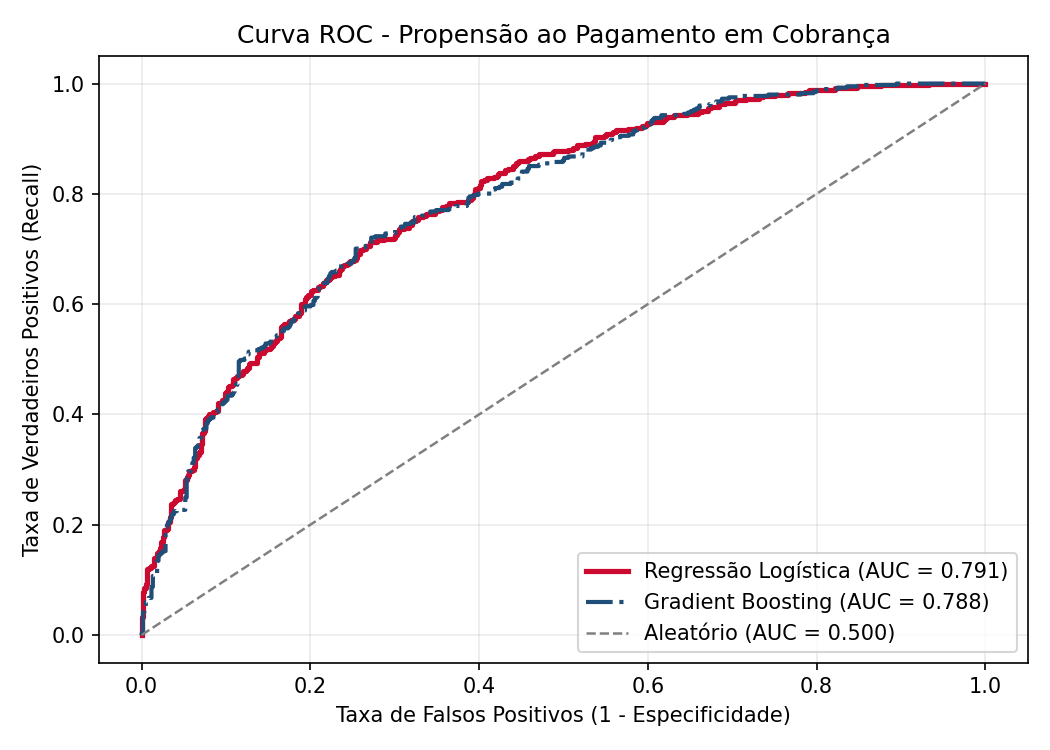
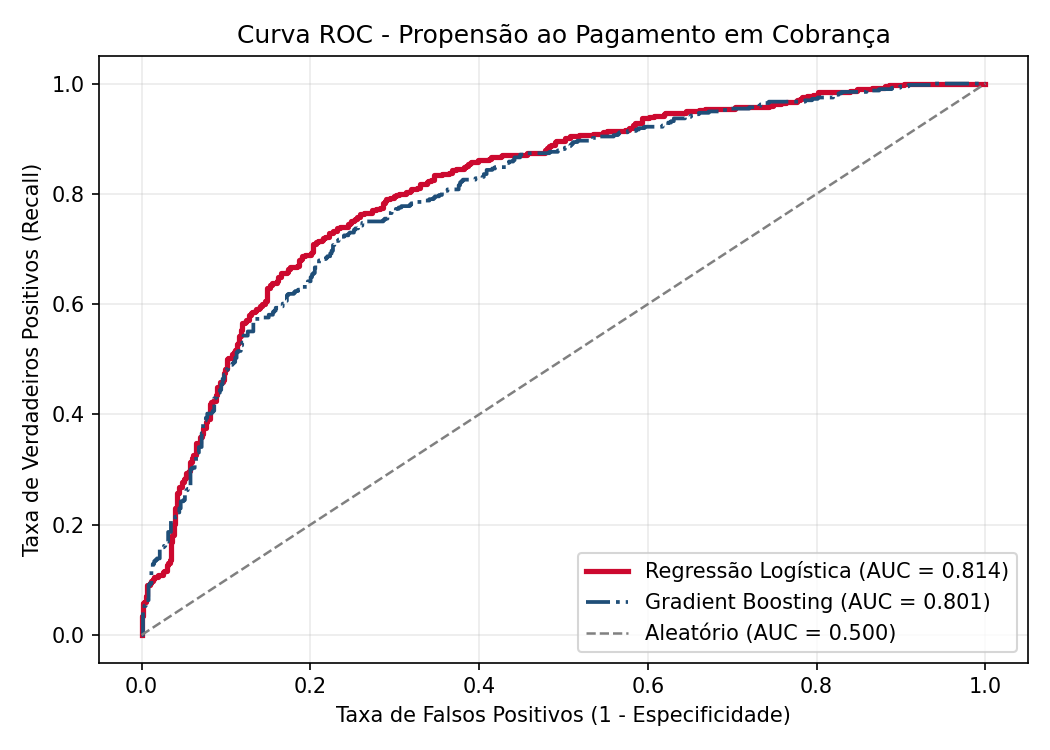
refactor(model): adiciona ColumnTransformer, OneHotEncoder e comparacao com Gradient Boosting

Changed region(s): [[0.1219, 0.092, 0.9448, 0.828], [0.6095, 0.736, 0.9752, 0.8587]]

diff --git a/src/treinar_modelo.py b/src/treinar_modelo.py
@@ -8,7 +8,8 @@ from sklearn.compose import ColumnTransformer
 from sklearn.ensemble import GradientBoostingClassifier
 from sklearn.linear_model import LogisticRegression
 from sklearn.metrics import (
-     confusion_matrix,
+    classification_report,
+    confusion_matrix,
     precision_score,
     recall_score,
     roc_auc_score,
@@ -32,12 +33,11 @@ NUMERIC_FEATURES = [
     "tempo_relacionamento_meses",
 ]
 CATEGORICAL_FEATURES = ["canal_preferido"]
-FEATURES = NUMERIC_FEATURES + CATEGORICAL_FEATURES
 TARGET = "pagou"
 
 
 def criar_preprocessador() -> ColumnTransformer:
-    """Padroniza variáveis numéricas e aplica One-Hot Encoding nas categóricas."""
+    """Cria transformador de colunas numéricas e categóricas."""
     return ColumnTransformer(
         transformers=[
             ("num", StandardScaler(), NUMERIC_FEATURES),
@@ -46,25 +46,11 @@ def criar_preprocessador() -> ColumnTransformer:
     )
 
 
-def avaliar_modelo(nome: str, pipeline: Pipeline, X_test: pd.DataFrame, y_test: pd.Series) -> dict:
-    """Calcula métricas de discriminação e classificação na base de teste."""
-    prob = pipeline.predict_proba(X_test)[:, 1]
-    pred = (prob >= 0.50).astype(int)
-    return {
-        "modelo": nome,
-        "auc_roc": roc_auc_score(y_test, prob),
-        "precision": precision_score(y_test, pred),
-        "recall": recall_score(y_test, pred),
-        "prob": prob,
-        "pred": pred,
-    }
-
-
 def treinar_e_avaliar() -> dict:
-    """Treina Regressão Logística (baseline) e Gradient Boosting, compara métricas e salva o modelo final."""
+    """Treina Regressão Logística, compara com Gradient Boosting e salva o modelo final."""
     df = pd.read_csv(DATA_PATH)
 
-    X = df[FEATURES]
+    X = df[NUMERIC_FEATURES + CATEGORICAL_FEATURES]
     y = df[TARGET]
 
     X_train, X_test, y_train, y_test = train_test_split(
@@ -75,77 +61,95 @@ def treinar_e_avaliar() -> dict:
     pipe_lr = Pipeline(
         steps=[
             ("prep", criar_preprocessador()),
-            ("clf", LogisticRegression(random_state=SEED)),
+            ("model", LogisticRegression(random_state=SEED)),
         ]
     )
     pipe_lr.fit(X_train, y_train)
-    res_lr = avaliar_modelo("Regressão Logística", pipe_lr, X_test, y_test)
+    prob_lr = pipe_lr.predict_proba(X_test)[:, 1]
+    pred_lr = (prob_lr >= 0.50).astype(int)
 
     # 2. Modelo de comparação: Gradient Boosting
     pipe_gb = Pipeline(
         steps=[
             ("prep", criar_preprocessador()),
-            ("clf", GradientBoostingClassifier(random_state=SEED)),
+            ("model", GradientBoostingClassifier(random_state=SEED)),
         ]
     )
     pipe_gb.fit(X_train, y_train)
-    res_gb = avaliar_modelo("Gradient Boosting", pipe_gb, X_test, y_test)
+    prob_gb = pipe_gb.predict_proba(X_test)[:, 1]
+    pred_gb = (prob_gb >= 0.50).astype(int)
 
-    # Tabela comparativa
-    comparacao = pd.DataFrame([res_lr, res_gb])[["modelo", "auc_roc", "precision", "recall"]]
+    # 3. Tabela comparativa
+    comparacao = pd.DataFrame(
+        [
+            {
+                "Modelo": "Regressão Logística",
+                "AUC-ROC": roc_auc_score(y_test, prob_lr),
+                "Precision (1)": precision_score(y_test, pred_lr),
+                "Recall (1)": recall_score(y_test, pred_lr),
+            },
+            {
+                "Modelo": "Gradient Boosting",
+                "AUC-ROC": roc_auc_score(y_test, prob_gb),
+                "Precision (1)": precision_score(y_test, pred_gb),
+                "Recall (1)": recall_score(y_test, pred_gb),
+            },
+        ]
+    )
 
-    # Matriz de confusão e coeficientes da Regressão Logística
-    matriz = confusion_matrix(y_test, res_lr["pred"])
+    # 4. Métricas detalhadas e coeficientes da Regressão Logística
+    auc_lr = roc_auc_score(y_test, prob_lr)
+    auc_gb = roc_auc_score(y_test, prob_gb)
+    matriz = confusion_matrix(y_test, pred_lr)
+    relatorio = classification_report(y_test, pred_lr, digits=3)
+
     nomes_features = pipe_lr.named_steps["prep"].get_feature_names_out()
     pesos = pd.Series(
-        pipe_lr.named_steps["clf"].coef_[0], index=nomes_features
+        pipe_lr.named_steps["model"].coef_[0], index=nomes_features
     ).sort_values(ascending=False)
 
-    # Salva a Regressão Logística como modelo de produção (melhor balanço entre AUC e interpretabilidade)
+    # 5. Persistência do modelo escolhido (Regressão Logística) e gráfico ROC
     MODEL_PATH.parent.mkdir(parents=True, exist_ok=True)
     joblib.dump(pipe_lr, MODEL_PATH)
-
-    salvar_grafico_roc(y_test, res_lr, res_gb)
+    salvar_grafico_roc(y_test, prob_lr, auc_lr, prob_gb, auc_gb)
 
     print("=" * 60)
     print("COMPARAÇÃO DE MODELOS (BASE DE TESTE - 20%)")
     print("=" * 60)
     print(comparacao.to_string(index=False, float_format=lambda x: f"{x:.4f}"))
-    print("\nMatriz de Confusão (Regressão Logística):")
+    print("\n" + "=" * 60)
+    print("DETALHAMENTO: REGRESSÃO LOGÍSTICA (MODELO ESCOLHIDO)")
+    print("=" * 60)
+    print("Matriz de Confusão:")
     print(matriz)
-    print("\nCoeficientes da Regressão Logística:")
+    print("\nRelatório de Classificação:")
+    print(relatorio)
+    print("Coeficientes do Modelo:")
     for feat, peso in pesos.items():
         sinal = "+" if peso > 0 else ""
-        print(f"  {feat:<35}: {sinal}{peso:.4f}")
+        print(f"  {feat:<34}: {sinal}{peso:.4f}")
     print("=" * 60)
     print(f"[OK] Modelo salvo em: {MODEL_PATH}")
     print(f"[OK] Gráfico ROC salvo em: {ROC_PLOT_PATH}")
 
-    return {"auc_lr": res_lr["auc_roc"], "auc_gb": res_gb["auc_roc"], "pesos": pesos.to_dict()}
+    return {"auc_lr": auc_lr, "auc_gb": auc_gb, "pesos": pesos.to_dict()}
 
 
-def salvar_grafico_roc(y_true: pd.Series, res_lr: dict, res_gb: dict) -> None:
+def salvar_grafico_roc(
+    y_true: pd.Series,
+    prob_lr: pd.Series,
+    auc_lr: float,
+    prob_gb: pd.Series,
+    auc_gb: float,
+) -> None:
     """Gera e salva o gráfico comparativo da Curva ROC."""
     ROC_PLOT_PATH.parent.mkdir(parents=True, exist_ok=True)
-    fpr_lr, tpr_lr, _ = roc_curve(y_true, res_lr["prob"])
-    fpr_gb, tpr_gb, _ = roc_curve(y_true, res_gb["prob"])
+    fpr_lr, tpr_lr, _ = roc_curve(y_true, prob_lr)
+    fpr_gb, tpr_gb, _ = roc_curve(y_true, prob_gb)
 
     plt.figure(figsize=(7, 5))
-    plt.plot(
-        fpr_lr,
-        tpr_lr,
-        color="#cc092f",
-        lw=2.5,
-        label=f"Regressão Logística (AUC = {res_lr['auc_roc']:.3f})",
-    )
-    plt.plot(
-        fpr_gb,
-        tpr_gb,
-        color="#1f4e78",
-        lw=2.0,
-        linestyle="-.",
-        label=f"Gradient Boosting (AUC = {res_gb['auc_roc']:.3f})",
-    )
+    plt.plot(fpr_lr, tpr_lr, color="#cc092f", lw=2.5, label=f"Regressão Logística (AUC = {auc_lr:.3f})")
+    plt.plot(fpr_gb, tpr_gb, color="#1f4e78", lw=1.8, linestyle="-.", label=f"Gradient Boosting (AUC = {auc_gb:.3f})")
     plt.plot([0, 1], [0, 1], color="gray", lw=1.2, linestyle="--", label="Aleatório (AUC = 0.500)")
     plt.xlabel("Taxa de Falsos Positivos (1 - Especificidade)")
     plt.ylabel("Taxa de Verdadeiros Positivos (Recall)")

diff --git a/src/gerar_dados.py b/src/gerar_dados.py
@@ -34,7 +34,7 @@ def gerar_base_clientes(n_clientes: int = 5000, seed: int = SEED) -> pd.DataFram
         p=[0.45, 0.25, 0.20, 0.10],
     )
 
-    # Renda de referência por faixa (R$ 2.500, R$ 5.000, R$ 10.000)
+    # Renda mensal de referência por faixa e comprometimento relativo
     renda_ref = np.array([2500, 5000, 10000])[renda_faixa - 1]
     divida_relativa = np.clip(valor_devido / renda_ref, 0.0, 5.0)
 
@@ -53,7 +53,7 @@ def gerar_base_clientes(n_clientes: int = 5000, seed: int = SEED) -> pd.DataFram
         + 0.35 * (renda_faixa - 1)
         - 0.50 * divida_relativa
         + efeito_canal
-        + rng.normal(0, 1.1, size=n_clientes)
+        + rng.normal(0, 0.8, size=n_clientes)
     )
 
     prob_real_pagamento = 1 / (1 + np.exp(-score_latente))
